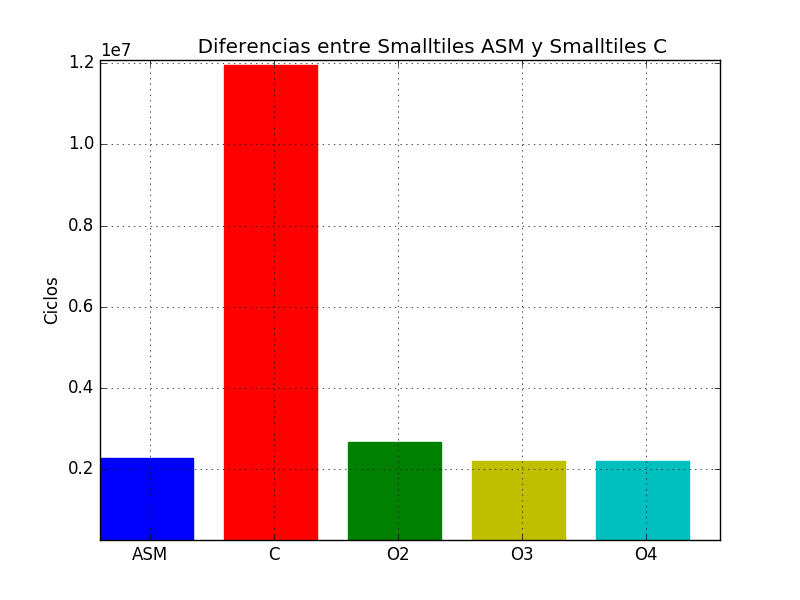
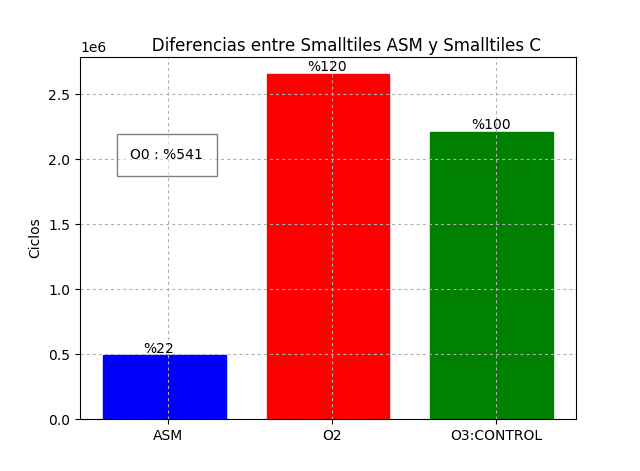
retoques

diff --git a/Experimentos/ROTAR/ASMvsC.py b/Experimentos/ROTAR/ASMvsC.py
@@ -24,18 +24,6 @@ with open(data2_csv) as csvfile:
     ts2[30].append(rot1)
 
 
-data3_csv = "rotarO2.csv"
-
-ts3 = [ [] for i in range(128)]
-
-with open(data3_csv) as csvfile:
-  reader = csv.DictReader(csvfile)
-  for row in reader:
-    O2 = int(row['rotar'])
-    
-    ts3[33].append(O2)
-
-
 data4_csv = "rotarO3.csv"
 
 ts4 = [ [] for i in range(128)]
@@ -47,75 +35,87 @@ with open(data4_csv) as csvfile:
     
     ts4[44].append(O3)
 
-data5_csv = "rotarO4.csv"
-
-ts5 = [ [] for i in range(128)]
-
-with open(data5_csv) as csvfile:
-  reader = csv.DictReader(csvfile)
-  for row in reader:
-    O4 = int(row['rotar'])
-    
-    ts5[54].append(O4)
 
 
 import matplotlib.pyplot as plt
 import numpy as np
 
-
-rotar = 10000000000000000
+ind = 0
+rota = []
+rotar = 0
 for i in range(128):
 	for t in ts[i]:
-		rotar = min(rotar, t)
+		rotar = rotar + t
+		ind = ind + 1
+		rota.append(t)
 
-rotar2 = 1000000000000000
+rotar = rotar/ind		
+stdRotar = np.std(rota)
+ind = 0
+rota2 = []
+rotar2 = 0
 for i in range(128):
 	for t in ts2[i]:
-		rotar2 = min(rotar2, t)
+		rotar2 = rotar2 + t
+		ind = ind + 1
+		rota2.append(t)
 
-o2 = 100000000000000000
-for i in range(128):
-  for t in ts3[i]:
-    o2 = min(o2,t)
-
-o3 = 100000000000000000
+rotar2 = rotar2/ind
+rota3 = []
+o3 = 0
+ind = 0
 for i in range(128):
   for t in ts4[i]:
-    o3 = min(o3,t)  
+    o3 = o3 + t
+    ind = ind + 1  
+    rota3.append(t)
 
-o4 = 100000000000000000
-for i in range(128):
-  for t in ts5[i]:
-    o4 = min(o4,t)  
+o3 = o3/ind    
+stdO3 = np.std(rota3)
+stdC = np.std(rota2)
+
+stdd = []
+stdd.append(stdRotar)
+stdd.append(stdC)
+stdd.append(stdO3)
+
 
 
 y = []
 y.append(rotar)
 
 y.append(rotar2)
-y.append(o2)
+
 y.append(o3)
-y.append(o4)
 
 
-ind = np.arange(5) 
+
+ind = np.arange(3) 
 width = .75     
 
 fig, ax = plt.subplots()
-rects1 = ax.bar(ind, y, width)
+rects1 = ax.bar(ind, y, width, yerr = stdd)
 
 ax.set_ylabel('Ciclos')
 ax.set_title('Comparacion de cantidad de ciclos entre ASM y distintas optimizaciones de C')
 #plt.suptitle('de Rotar ASM y Rotar C', y=1.05, fontsize=17)
 ax.set_xticks(ind + 0.4)
-ax.set_xticklabels(('ASM','C','O2','O3','O4'))
+ax.set_xticklabels(('ASM','C','O3:CONTROL'))
 plt.ticklabel_format(style='sci', axis='y', scilimits=(0,0))
 rects1[0].set_color('g')
 rects1[1].set_color('b')
 rects1[2].set_color('r')
-rects1[3].set_color('y')
-rects1[4].set_color('m')
-plt.ylim(0, 12000000)
+plt.grid(linestyle = 'dotted' ,linewidth = 0.5)
+plt.text(0.25, 550000, r'%8')
+plt.text(2.25, 4763388, r'%100' )
+plt.text(1.25, 15000000, r'%305')
+
+print(rotar)
+print(rotar2)
+print(o3)
+
+print((rotar*100)/o3)
+print((rotar2*100)/o3)
 
 plt.show()
 

diff --git a/Experimentos/SMALLTILES/ASMvsC.py b/Experimentos/SMALLTILES/ASMvsC.py
@@ -7,7 +7,7 @@ ts = [ [] for i in range(128)]
 with open(data_csv) as csvfile:
   reader = csv.DictReader(csvfile)
   for row in reader:
-    smalA = int(row['small'])
+    smalA = float(row['small'])
     
     ts[30].append(smalA)
 
@@ -18,7 +18,7 @@ ts5 = [ [] for i in range(128)]
 with open(data5_csv) as csvfile:
   reader = csv.DictReader(csvfile)
   for row in reader:
-    smalC = int(row['small'])
+    smalC = float(row['small'])
     
     ts5[23].append(smalC)
 
@@ -57,26 +57,43 @@ with open(data4_csv) as csvfile:
 import matplotlib.pyplot as plt
 import numpy as np
 
-
-smallA = 10000000000000000000
+ind = 0
+a = []
+smallA = 0
 for i in range(128):
   for t in ts[i]:
-    smallA = min(smallA, t)
+	  ind = ind + 1
+	  smallA = smallA + t
+	  a.append(t)
 
+stdA = np.std(a)
+smallA = smallA/ind
 
-small2 = 10000000000000000000
+s2 = []
+ind = 0
+small2 = 0
 for i in range(128):
   for t in ts2[i]:
-    small2 = min(small2,t)
+	  ind = ind + 1
+	  small2 = small2 + t
+	  s2.append(t)
+
+std2 = np.std(s2)
+small2 = small2/ind
 
 
+s3 = []
 
-small3 = 10000000000000000000
+ind = 0
+small3 = 0
 for i in range(128):
   for t in ts3[i]:
-    small3 = min(small3, t)
+	  ind = ind + 1
+	  small3 = small3 + t
+	  s3.append(t)
 
-
+small3 = small3/ind
+std3 = np.std(s3)
 
 small4 = 10000000000000000000
 for i in range(128):
@@ -96,25 +113,37 @@ y.append(smallA)
 y.append(small2)
 y.append(small3)
 
+stdd = []
+
+stdd.append(stdA)
+stdd.append(std2)
+stdd.append(std3)
 
 ind = np.arange(3) 
 width = .75     
 
 fig, ax = plt.subplots()
-rects1 = ax.bar(ind, y, width)
+rects1 = ax.bar(ind, y, width, yerr = stdd)
 
 ax.set_ylabel('Ciclos')
 ax.set_title('       Diferencias entre Smalltiles ASM y Smalltiles C')
 #ax.set_subtitle(' formas e igual cantidad de pixeles')
 ax.set_xticks(ind + 0.4)
-ax.set_xticklabels(('ASM','O2','O3'))
+ax.set_xticklabels(('ASM','O2','O3:CONTROL'))
 plt.ticklabel_format(style='sci', axis='y', scilimits=(0,0))
 rects1[0].set_color('b')
 rects1[1].set_color('r')
 rects1[2].set_color('g')
-plt.grid(True)
-
-plt.ylim(250000,12080000)
-
+plt.grid(linestyle = 'dotted')
+print(small2)
+print(small3)
+print((smallA*100)/small3)
+print((small2*100)/small3)
+print((smallC*100)/small3)
+plt.text(0.25, 530000, r'%15')
+plt.text(1.25, 4312981, r'%130')
+plt.text(2.25, 3317645, r'%100')
+plt.text(0.17, 5000000, 'O0 : %372',
+        bbox={'facecolor':'white', 'alpha':0.5, 'pad':10})
 plt.show()
 

diff --git a/Experimentos/PIXELAR/ASMvsC.py b/Experimentos/PIXELAR/ASMvsC.py
@@ -47,46 +47,71 @@ with open(data4_csv) as csvfile:
     
     tsO3[14].append(pixO3)
 
-
-asm = 10000000000000000
+ind = 0
+asm = 0
+asmA = []
 for i in range(128):
 	for t in tsASM[i]:
-		asm = min(asm, t)
-
-c = 10000000000000000
+		asmA.append(t)
+		ind = ind + 1
+		asm = asm+t
+		
+asm = asm/ind
+cA = []
+ind = 0
+c = 0
 for i in range(128):
 	for t in tsC[i]:
-		c = min(c, t)
-
-o2 = 10000000000000000
+		cA.append(t)
+		c = c+t
+		ind = ind + 1
+		
+c = c/ind
+o2A = []
+ind = 0
+o2 = 0
 for i in range(128):
 	for t in tsO2[i]:
-		o2 = min(o2, t)
+		o2A.append(t)
+		o2 = o2 + t
+		ind = ind + 1
+		
+o2 = o2/ind
+o3A = []
+ind = 0
 
-
-o3 = 10000000000000000
+o3 = 0
 for i in range(128):
 	for t in tsO3[i]:
-		o3 = min(o3, t)
+		o3A.append(t)
+		o3 = o3 + t
+		ind = ind + 1
+		
+o3 = o3/ind
  
+stdd = []
+stdd.append(np.std(asmA))
+#stdd.append(np.std(cA))
+#stdd.append(np.std(o2A))
+stdd.append(np.std(o3A))
 
 y = []
 y.append(asm)
-y.append(c)
+#y.append(c)
 #y.append(o2)
-#y.append(o3)
+y.append(o3)
 
 ind = np.arange(2) 
 width = .5     
 
 fig, ax = plt.subplots()
-rects1 = ax.bar(ind, y, width)
+rects1 = ax.bar(ind, y, width, yerr = stdd)
 
 ax.set_ylabel('Ciclos')
-ax.set_title('       Pixelar ASM y Pixelar C')
+ax.set_title('       Pixelar ASM y Pixelar C Optimizado')
 #ax.set_subtitle(' formas e igual cantidad de pixeles')
 ax.set_xticks(ind + 0.4)
-ax.set_xticklabels(('ASM', 'C'))
+ax.set_xticklabels(('ASM', 'O3:CONTROL'))
 plt.ticklabel_format(style='sci', axis='y', scilimits=(0,0))
 
 plt.text(1.25, 14199999, r'%100')
